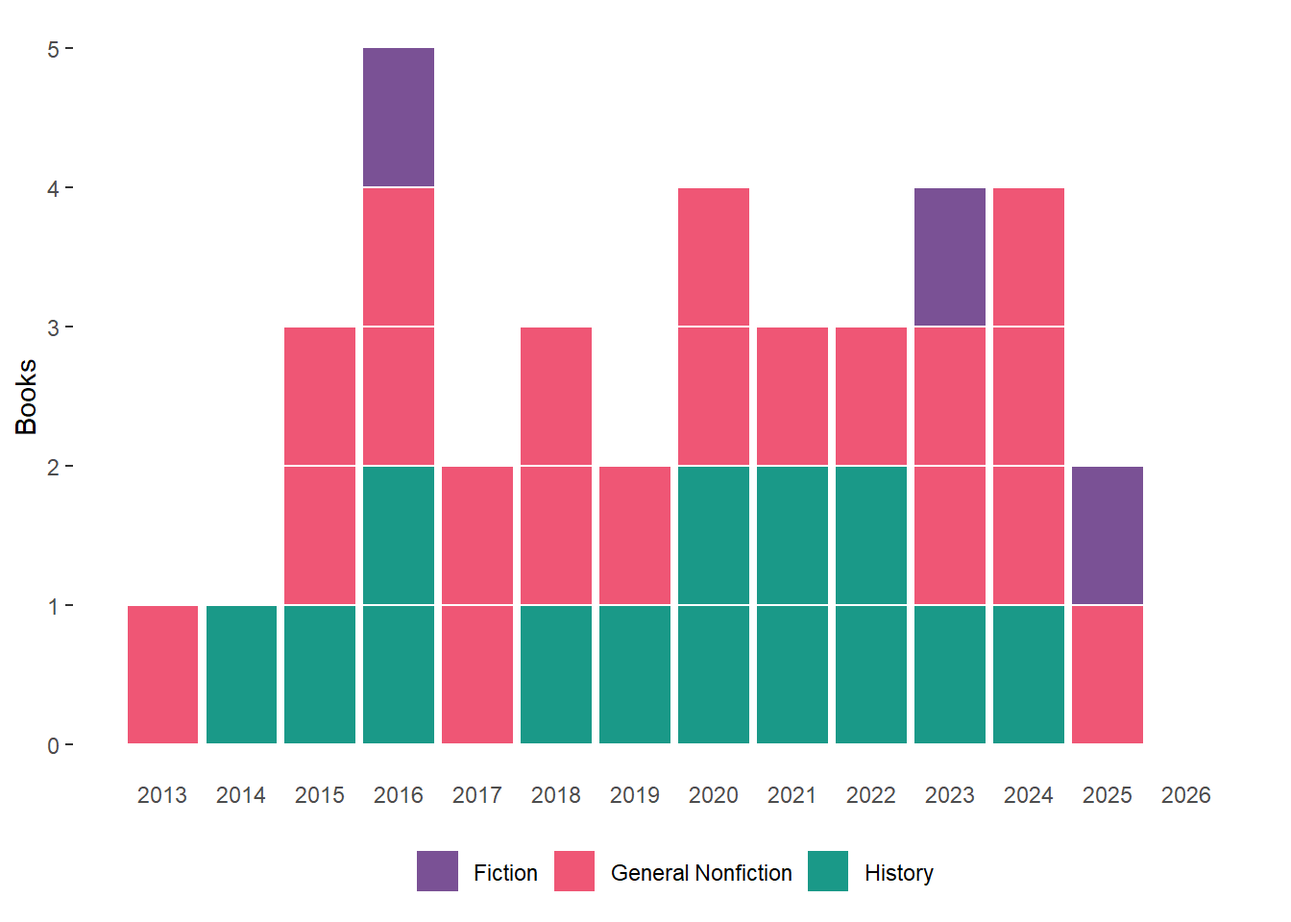
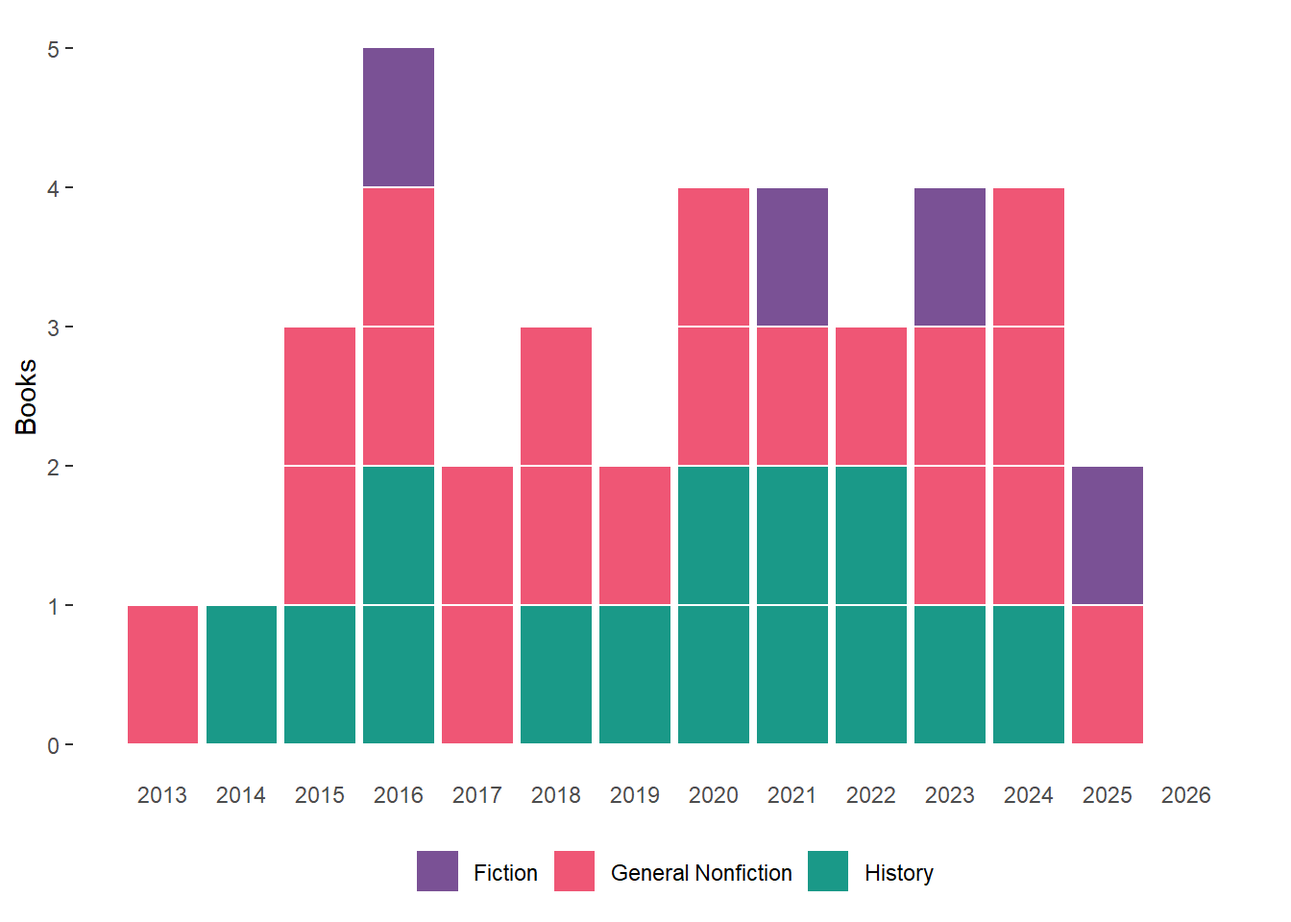
add telephone and update rounding

Changed region(s): [[0.5625, 0.1875, 0.6562, 0.375]]

diff --git a/pullitzer.html b/pullitzer.html
@@ -293,8 +293,8 @@ database is getting).</p>
 <h3>The full list</h3>
 <p>These are the finalists and winners of general nonfiction and
 history, and my progress in reading them.</p>
-<div class="reactable html-widget html-fill-item" id="htmlwidget-33ce086b832242b796eb" style="width:auto;height:auto;"></div>
-<script type="application/json" data-for="htmlwidget-33ce086b832242b796eb">{"x":{"tag":{"name":"Reactable","attribs":{"data":{"year":[2026,2026,2026,2026,2026,2026,2026,2026,2026,2025,2025,2025,2025,2025,2025,2025,2025,2025,2025,2024,2024,2024,2024,2024,2024,2024,2024,2024,2023,2023,2023,2023,2023,2023,2023,2023,2023,2023,2022,2022,2022,2022,2022,2022,2022,2022,2022,2021,2021,2021,2021,2021,2021,2021,2021,2021,2020,2020,2020,2020,2020,2020,2020,2020,2020,2019,2019,2019,2019,2019,2019,2019,2019,2019,2018,2018,2018,2018,2018,2018,2018,2018,2018,2017,2017,2017,2017,2017,2017,2017,2017,2017,2016,2016,2016,2016,2016,2016,2016,2016,2016,2016,2015,2015,2015,2015,2015,2015,2015,2015,2015,2014,2014,2014,2014,2014,2014,2014,2014,2014,2013,2013,2013,2013,2013,2013,2013,2013,2013,2012,2012,2012,2012,2012,2012,2012,2012,2012,2012,2011,2011,2011,2011,2011,2011,2011,2011,2011,2010,2010,2010,2010,2010,2010],"short.title":["We the People","King of Kings","Born in Flames","There Is No Place for Us","A Flower Traveled in My Blood","Mother Emanuel","Angel Down","Audition","Stag Dance","Combee","Native Nations","Plantation Goods","To the Success of Our Hopeless Cause","I Am on the Hit List","Until I Find You","James","The Unicorn Woman","Headshot","Mice 1961","No Right to an Honest Living","American Anarchy","Continental Reckoning","A Day in the Life of Abed Salama","Fire Weather","Cobalt Red","Night Watch","Same Bed Different Dreams","Wednesday's Child","Freedom's Dominion","Seeing Red","Watergate","His Name Is George Floyd","Kingdom of Characters","Sounds Wild and Broken","Under the Skin","Demon Copperhead","Trust","The Immortal King Rao","Covered with Night","Cuba","Until Justice Be Done","Invisible Child","Home, Land, Security","The Family Roe","The Netanyahus","Palmares","Monkey Boy","Franchise","The Three-Cornered War","The Deviant's War","Wilmington's Lie","Minor Feelings","Yellow Bird","The Night Watchman","Telephone","A Registry of My Passage Upon the Earth","Sweet Taste of Liberty ","Race for Profit","The End of the Myth ","The Undying","Solitary","Elderhood","The Nickel Boys","The Topeka School","The Dutch House","Frederick Douglass ","American Eden ","Civilizing Torture ","Amity and Prosperity","In a Day's Work","Rising","The Overstory","The Great Believers","There There","The Gulf","Fear City","Hitler in Los Angeles ","Locking Up Our Own ","Notes on a Foreign Country ","The Evolution of Beauty","Less","In the Distance","The Idiot","Blood in the Water ","Brothers at Arms","New England Bound","Evicted","In a Different Key ","The Politics of Mourning ","The Underground Railroad","Imagine Me Gone","The Sport of Kings","Custer's Trials","Marching Home","Target Tokyo","The Pentagon's Brain","Black Flags","Between the World and Me","If the Oceans Were Ink ","The Sympathizer","Get in Trouble","Maud's Line","Encounters at the Heart of the World","An Empire on the Edge","Empire of Cotton","The Sixth Extinction","Age of Ambition","No Good Men Among the Living","All the Light We Cannot See","The Moor's Account","Let Me Be Frank with You","The Internal Enemy","A Dreadful Deceit","Command and Control","Toms River","The Blood Telegram","The Insurgents","The Goldfinch","The Son","The Woman Who Lost Her Soul","Embers of War","Lincoln's Code","The Barbarous Years","Devil in the Grove","Behind the Beautiful Forevers","The Forest Unseen","The Orphan Master's Son","What We Talk About When We Talk About Anne Frank","The Snow Child","Malcolm X","Empires, Nations & Families","Railroaded","The Eleventh Day","The Swerve","One Hundred Names For Love","Unnatural Selection","Train Dreams","Swamplandia!","The Pale King","The Fiery Trial","Confederate Reckoning","Eden on the Charles","The Emperor of All Maladies","Empire of the Summer Moon","The Shallows","A Visit from the Goon Squad","The Privileges","The Surrendered","Lords of Finance","Empire of Liberty","Fordlandia","Tinkers","Love in Infant Monkeys","In Other Rooms, Other Wonders"],"author":["Jill Lepore","Scott Anderson","Bench Ansfield","Brian Goldstone","Haley Cohen Gilliland","Kevin Sack","Daniel Kraus","Katie Kitamura","Torrey Peters","Edda L. Fields-Black","Kathleen DuVal","Seth Rockman","Benjamin Nathans","Rollo Romig","Rachel Nolan","Percival Everett","Gayl Jones","Rita Bullwinkel","Stacey Levine","Jacqueline Jones","Michael Willrich","Elliott West","Nathan Thrall","John Vaillant","Siddharth Kara","Jayne Anne Phillips","Ed Park","Yiyun Li","Jefferson Cowie","Michael John Witgen","Garrett M. Graff","Robert Samuels and Toluse Olorunnipa","Jing Tsu","David George Haskell","Linda Villarosa","Barbara Kingsolver","Hernan Diaz","Vauhini Vara","Nicole Eustace","Ada Ferrer","Kate Masur","Andrea Elliott","Carla Power","Joshua Prager","Joshua Cohen","Gayl Jones","Francisco Goldman","Marcia Chatelain","Megan Kate Nelson","Eric Cervini","David Zucchino","Cathy Park Hong","Sierra Crane Murdoch","Louise Erdrich","Percival Everett","Daniel Mason","W. Caleb McDaniel","Keeanga-Yamhatta Taylor","Greg Grandin","Anne Boyer","Albert Woodfox","Louise Aronson","Colson Whitehead","Ben Lerner","Ann Patchett","David W. Blight","Victoria Johnson","W. Fitzhugh Brundage","Eliza Griswold","Bernice Yeung","Elizabeth Rush","Richard Powers","Rebecca Makkai","Tommy Orange","Jack E. Davis","Kim Phillips-Fein","Steven J. Ross","James Forman Jr.","Suzy Hansen","Richard O. Prum","Andrew Sean Greer","Hernan Diaz","Elif Batuman","Heather Ann Thompson","Larrie D. Ferreiro","Wendy Warren","Matthew Desmond","John Donvan and Caren Zucker","Micki McElya","Colson Whitehead","Adam Haslett","C.E. Morgan","T.J. Stiles","Brian Matthew Jordan","James M. Scott","Annie Jacobsen","Joby Warrick","Ta-Nehisi Coates","Carla Power","Viet Thanh Nguyen","Kelly Link","Margaret Verble","Elizabeth A. Fenn","Nick Bunker","Steven Beckert","Elizabeth Kolbert","Evan Osnos","Anand Gopal","Anthony Doerr","Laila Lalami","Richard Ford","Alan Taylor","Jacqueline Jones","Eric Schlosser","Dan Fagin","Gary J. Bass","Fred Kaplan","Donna Tartt","Philipp Meyer","Bob Shacochis","Fredrik Logeval","John Fabian Witt","Bernard Bailyn","Gilbert King","Katherine Boo","David George Haskell","Adam Johnson","Nathan Englander","Eowyn Ivey","Manning Marable","Anne F. Hyde","Richard White","Anthony Summers and Robbyn Swan","Stephen Greenblatt","Diane Ackerman","Mara Hvistendahl","Denis Johnson","Karen Russell","David Foster Wallace","Eric Foner","Stephanie McCurry","Michael Rawson","Siddhartha Mukherjee","S.C. Gwynne","Nicholas Carr","Jennifer Egan","Jonathan Dee","Chang-rae Lee","Liaquat Ahamed","Gordon S. Wood","Greg Grandin","Paul Harding","Lydia Millet","Daniyal Mueenuddin"],"read":["No","No","No","No","No","No","No","No","No","No","No","No","No","Yes","No","Yes","No","No","No","No","Yes","No","Yes","Yes","Yes","No","No","No","No","No","Yes","No","Yes","No","Yes","No","Yes","No","Yes","Yes","No","No","Yes","No","No","No","No","Yes","Yes","No","No","No","Yes","No","No","No","Yes","Yes","Yes","No","Yes","No","No","No","No","No","No","Yes","Yes","No","No","No","No","No","Yes","No","No","Yes","No","Yes","No","No","No","No","No","No","Yes","Yes","No","No","No","No","Yes","No","No","Yes","Yes","Yes","No","Yes","No","No","Yes","No","No","No","Yes","Yes","No","No","No","No","No","Yes","No","No","No","No","No","No","No","No","No","No","Yes","No","No","No","No","No","No","No","No","No","No","No","No","No","No","No","No","No","No","No","No","No","No","No","No","No","No","No","No","No"],"award":["Winner","Finalist","Finalist","Winner","Finalist","Finalist","Winner","Finalist","Finalist","Winner","Winner","Finalist","Winner","Finalist","Finalist","Winner","Finalist","Finalist","Finalist","Winner","Finalist","Finalist","Winner","Finalist","Finalist","Winner","Finalist","Finalist","Winner","Finalist","Finalist","Winner","Finalist","Finalist","Finalist","Winner","Winner","Finalist","Winner","Winner","Finalist","Winner","Finalist","Finalist","Winner","Finalist","Finalist","Winner","Finalist","Finalist","Winner","Finalist","Finalist","Winner","Finalist","Finalist","Winner","Finalist","Winner","Winner","Finalist","Finalist","Winner","Finalist","Finalist","Winner","Finalist","Finalist","Winner","Finalist","Finalist","Winner","Finalist","Finalist","Winner","Finalist","Finalist","Winner","Finalist","Finalist","Winner","Finalist","Finalist","Winner","Finalist","Finalist","Winner","Finalist","Finalist","Winner","Finalist","Finalist","Winner","Finalist","Finalist","Finalist","Winner","Finalist","Finalist","Winner","Finalist","Finalist","Winner","Finalist","Finalist","Winner","Finalist","Finalist","Winner","Finalist","Finalist","Winner","Finalist","Finalist","Winner","Finalist","Finalist","Winner","Finalist","Finalist","Winner","Finalist","Finalist","Winner","Finalist","Finalist","Winner","Finalist","Finalist","Winner","Finalist","Finalist","Finalist","Winner","Finalist","Finalist","Finalist","Finalist","Finalist","Winner","Finalist","Finalist","Winner","Finalist","Finalist","Winner","Finalist","Finalist","Winner","Finalist","Finalist","Winner","Finalist","Finalist"],"category":["History","History","History","General Non-Fiction","General Non-Fiction","General Non-Fiction","Fiction","Fiction","Fiction","History","History","History","General Non-Fiction","General Non-Fiction","General Non-Fiction","Fiction","Fiction","Fiction","Fiction","History","History","History","General Non-Fiction","General Non-Fiction","General Non-Fiction","Fiction","Fiction","Fiction","History","History","History","General Non-Fiction","General Non-Fiction","General Non-Fiction","General Non-Fiction","Fiction","Fiction","Fiction","History","History","History","General Non-Fiction","General Non-Fiction","General Non-Fiction","Fiction","Fiction","Fiction","History","History","History","General Non-Fiction","General Non-Fiction","General Non-Fiction","Fiction","Fiction","Fiction","History","History","General Non-Fiction","General Non-Fiction","General Non-Fiction","General Non-Fiction","Fiction","Fiction","Fiction","History","History","History","General Non-Fiction","General Non-Fiction","General Non-Fiction","Fiction","Fiction","Fiction","History","History","History","General Non-Fiction","General Non-Fiction","General Non-Fiction","Fiction","Fiction","Fiction","History","History","History","General Non-Fiction","General Non-Fiction","General Non-Fiction","Fiction","Fiction","Fiction","History","History","History","History","General Non-Fiction","General Non-Fiction","General Non-Fiction","Fiction","Fiction","Fiction","History","History","History","General Non-Fiction","General Non-Fiction","General Non-Fiction","Fiction","Fiction","Fiction","History","History","History","General Non-Fiction","General Non-Fiction","General Non-Fiction","Fiction","Fiction","Fiction","History","History","History","General Non-Fiction","General Non-Fiction","General Non-Fiction","Fiction","Fiction","Fiction","History","History","History","History","General Non-Fiction","General Non-Fiction","General Non-Fiction","Fiction","Fiction","Fiction","History","History","History","General Non-Fiction","General Non-Fiction","General Non-Fiction","Fiction","Fiction","Fiction","History","History","History","Fiction","Fiction","Fiction"]},"columns":[{"id":"year","name":"Year","type":"numeric"},{"id":"short.title","name":"Title","type":"character","minWidth":150},{"id":"author","name":"Author","type":"character"},{"id":"read","name":"Read","type":"character","cell":["❌","❌","❌","❌","❌","❌","❌","❌","❌","❌","❌","❌","❌","✔","❌","✔","❌","❌","❌","❌","✔","❌","✔","✔","✔","❌","❌","❌","❌","❌","✔","❌","✔","❌","✔","❌","✔","❌","✔","✔","❌","❌","✔","❌","❌","❌","❌","✔","✔","❌","❌","❌","✔","❌","❌","❌","✔","✔","✔","❌","✔","❌","❌","❌","❌","❌","❌","✔","✔","❌","❌","❌","❌","❌","✔","❌","❌","✔","❌","✔","❌","❌","❌","❌","❌","❌","✔","✔","❌","❌","❌","❌","✔","❌","❌","✔","✔","✔","❌","✔","❌","❌","✔","❌","❌","❌","✔","✔","❌","❌","❌","❌","❌","✔","❌","❌","❌","❌","❌","❌","❌","❌","❌","❌","✔","❌","❌","❌","❌","❌","❌","❌","❌","❌","❌","❌","❌","❌","❌","❌","❌","❌","❌","❌","❌","❌","❌","❌","❌","❌","❌","❌","❌","❌"],"maxWidth":75},{"id":"award","name":"Award","type":"character"},{"id":"category","name":"Category","type":"character"}],"defaultPageSize":20,"showSortable":true,"rowStyle":[null,null,null,null,null,null,null,null,null,null,null,null,null,{"fontWeight":"bold"},null,{"fontWeight":"bold"},null,null,null,null,{"fontWeight":"bold"},null,{"fontWeight":"bold"},{"fontWeight":"bold"},{"fontWeight":"bold"},null,null,null,null,null,{"fontWeight":"bold"},null,{"fontWeight":"bold"},null,{"fontWeight":"bold"},null,{"fontWeight":"bold"},null,{"fontWeight":"bold"},{"fontWeight":"bold"},null,null,{"fontWeight":"bold"},null,null,null,null,{"fontWeight":"bold"},{"fontWeight":"bold"},null,null,null,{"fontWeight":"bold"},null,null,null,{"fontWeight":"bold"},{"fontWeight":"bold"},{"fontWeight":"bold"},null,{"fontWeight":"bold"},null,null,null,null,null,null,{"fontWeight":"bold"},{"fontWeight":"bold"},null,null,null,null,null,{"fontWeight":"bold"},null,null,{"fontWeight":"bold"},null,{"fontWeight":"bold"},null,null,null,null,null,null,{"fontWeight":"bold"},{"fontWeight":"bold"},null,null,null,null,{"fontWeight":"bold"},null,null,{"fontWeight":"bold"},{"fontWeight":"bold"},{"fontWeight":"bold"},null,{"fontWeight":"bold"},null,null,{"fontWeight":"bold"},null,null,null,{"fontWeight":"bold"},{"fontWeight":"bold"},null,null,null,null,null,{"fontWeight":"bold"},null,null,null,null,null,null,null,null,null,null,{"fontWeight":"bold"},null,null,null,null,null,null,null,null,null,null,null,null,null,null,null,null,null,null,null,null,null,null,null,null,null,null,null,null,null],"dataKey":"f39688c6a2685bf71ecdb2c179d27d4e"},"children":[]},"class":"reactR_markup"},"evals":[],"jsHooks":[]}</script>
+<div class="reactable html-widget html-fill-item" id="htmlwidget-8eb6094109c820f6a9fa" style="width:auto;height:auto;"></div>
+<script type="application/json" data-for="htmlwidget-8eb6094109c820f6a9fa">{"x":{"tag":{"name":"Reactable","attribs":{"data":{"year":[2026,2026,2026,2026,2026,2026,2026,2026,2026,2025,2025,2025,2025,2025,2025,2025,2025,2025,2025,2024,2024,2024,2024,2024,2024,2024,2024,2024,2023,2023,2023,2023,2023,2023,2023,2023,2023,2023,2022,2022,2022,2022,2022,2022,2022,2022,2022,2021,2021,2021,2021,2021,2021,2021,2021,2021,2020,2020,2020,2020,2020,2020,2020,2020,2020,2019,2019,2019,2019,2019,2019,2019,2019,2019,2018,2018,2018,2018,2018,2018,2018,2018,2018,2017,2017,2017,2017,2017,2017,2017,2017,2017,2016,2016,2016,2016,2016,2016,2016,2016,2016,2016,2015,2015,2015,2015,2015,2015,2015,2015,2015,2014,2014,2014,2014,2014,2014,2014,2014,2014,2013,2013,2013,2013,2013,2013,2013,2013,2013,2012,2012,2012,2012,2012,2012,2012,2012,2012,2012,2011,2011,2011,2011,2011,2011,2011,2011,2011,2010,2010,2010,2010,2010,2010],"short.title":["We the People","King of Kings","Born in Flames","There Is No Place for Us","A Flower Traveled in My Blood","Mother Emanuel","Angel Down","Audition","Stag Dance","Combee","Native Nations","Plantation Goods","To the Success of Our Hopeless Cause","I Am on the Hit List","Until I Find You","James","The Unicorn Woman","Headshot","Mice 1961","No Right to an Honest Living","American Anarchy","Continental Reckoning","A Day in the Life of Abed Salama","Fire Weather","Cobalt Red","Night Watch","Same Bed Different Dreams","Wednesday's Child","Freedom's Dominion","Seeing Red","Watergate","His Name Is George Floyd","Kingdom of Characters","Sounds Wild and Broken","Under the Skin","Demon Copperhead","Trust","The Immortal King Rao","Covered with Night","Cuba","Until Justice Be Done","Invisible Child","Home, Land, Security","The Family Roe","The Netanyahus","Palmares","Monkey Boy","Franchise","The Three-Cornered War","The Deviant's War","Wilmington's Lie","Minor Feelings","Yellow Bird","The Night Watchman","Telephone","A Registry of My Passage Upon the Earth","Sweet Taste of Liberty ","Race for Profit","The End of the Myth ","The Undying","Solitary","Elderhood","The Nickel Boys","The Topeka School","The Dutch House","Frederick Douglass ","American Eden ","Civilizing Torture ","Amity and Prosperity","In a Day's Work","Rising","The Overstory","The Great Believers","There There","The Gulf","Fear City","Hitler in Los Angeles ","Locking Up Our Own ","Notes on a Foreign Country ","The Evolution of Beauty","Less","In the Distance","The Idiot","Blood in the Water ","Brothers at Arms","New England Bound","Evicted","In a Different Key ","The Politics of Mourning ","The Underground Railroad","Imagine Me Gone","The Sport of Kings","Custer's Trials","Marching Home","Target Tokyo","The Pentagon's Brain","Black Flags","Between the World and Me","If the Oceans Were Ink ","The Sympathizer","Get in Trouble","Maud's Line","Encounters at the Heart of the World","An Empire on the Edge","Empire of Cotton","The Sixth Extinction","Age of Ambition","No Good Men Among the Living","All the Light We Cannot See","The Moor's Account","Let Me Be Frank with You","The Internal Enemy","A Dreadful Deceit","Command and Control","Toms River","The Blood Telegram","The Insurgents","The Goldfinch","The Son","The Woman Who Lost Her Soul","Embers of War","Lincoln's Code","The Barbarous Years","Devil in the Grove","Behind the Beautiful Forevers","The Forest Unseen","The Orphan Master's Son","What We Talk About When We Talk About Anne Frank","The Snow Child","Malcolm X","Empires, Nations & Families","Railroaded","The Eleventh Day","The Swerve","One Hundred Names For Love","Unnatural Selection","Train Dreams","Swamplandia!","The Pale King","The Fiery Trial","Confederate Reckoning","Eden on the Charles","The Emperor of All Maladies","Empire of the Summer Moon","The Shallows","A Visit from the Goon Squad","The Privileges","The Surrendered","Lords of Finance","Empire of Liberty","Fordlandia","Tinkers","Love in Infant Monkeys","In Other Rooms, Other Wonders"],"author":["Jill Lepore","Scott Anderson","Bench Ansfield","Brian Goldstone","Haley Cohen Gilliland","Kevin Sack","Daniel Kraus","Katie Kitamura","Torrey Peters","Edda L. Fields-Black","Kathleen DuVal","Seth Rockman","Benjamin Nathans","Rollo Romig","Rachel Nolan","Percival Everett","Gayl Jones","Rita Bullwinkel","Stacey Levine","Jacqueline Jones","Michael Willrich","Elliott West","Nathan Thrall","John Vaillant","Siddharth Kara","Jayne Anne Phillips","Ed Park","Yiyun Li","Jefferson Cowie","Michael John Witgen","Garrett M. Graff","Robert Samuels and Toluse Olorunnipa","Jing Tsu","David George Haskell","Linda Villarosa","Barbara Kingsolver","Hernan Diaz","Vauhini Vara","Nicole Eustace","Ada Ferrer","Kate Masur","Andrea Elliott","Carla Power","Joshua Prager","Joshua Cohen","Gayl Jones","Francisco Goldman","Marcia Chatelain","Megan Kate Nelson","Eric Cervini","David Zucchino","Cathy Park Hong","Sierra Crane Murdoch","Louise Erdrich","Percival Everett","Daniel Mason","W. Caleb McDaniel","Keeanga-Yamhatta Taylor","Greg Grandin","Anne Boyer","Albert Woodfox","Louise Aronson","Colson Whitehead","Ben Lerner","Ann Patchett","David W. Blight","Victoria Johnson","W. Fitzhugh Brundage","Eliza Griswold","Bernice Yeung","Elizabeth Rush","Richard Powers","Rebecca Makkai","Tommy Orange","Jack E. Davis","Kim Phillips-Fein","Steven J. Ross","James Forman Jr.","Suzy Hansen","Richard O. Prum","Andrew Sean Greer","Hernan Diaz","Elif Batuman","Heather Ann Thompson","Larrie D. Ferreiro","Wendy Warren","Matthew Desmond","John Donvan and Caren Zucker","Micki McElya","Colson Whitehead","Adam Haslett","C.E. Morgan","T.J. Stiles","Brian Matthew Jordan","James M. Scott","Annie Jacobsen","Joby Warrick","Ta-Nehisi Coates","Carla Power","Viet Thanh Nguyen","Kelly Link","Margaret Verble","Elizabeth A. Fenn","Nick Bunker","Steven Beckert","Elizabeth Kolbert","Evan Osnos","Anand Gopal","Anthony Doerr","Laila Lalami","Richard Ford","Alan Taylor","Jacqueline Jones","Eric Schlosser","Dan Fagin","Gary J. Bass","Fred Kaplan","Donna Tartt","Philipp Meyer","Bob Shacochis","Fredrik Logeval","John Fabian Witt","Bernard Bailyn","Gilbert King","Katherine Boo","David George Haskell","Adam Johnson","Nathan Englander","Eowyn Ivey","Manning Marable","Anne F. Hyde","Richard White","Anthony Summers and Robbyn Swan","Stephen Greenblatt","Diane Ackerman","Mara Hvistendahl","Denis Johnson","Karen Russell","David Foster Wallace","Eric Foner","Stephanie McCurry","Michael Rawson","Siddhartha Mukherjee","S.C. Gwynne","Nicholas Carr","Jennifer Egan","Jonathan Dee","Chang-rae Lee","Liaquat Ahamed","Gordon S. Wood","Greg Grandin","Paul Harding","Lydia Millet","Daniyal Mueenuddin"],"read":["No","No","No","No","No","No","No","No","No","No","No","No","No","Yes","No","Yes","No","No","No","No","Yes","No","Yes","Yes","Yes","No","No","No","No","No","Yes","No","Yes","No","Yes","No","Yes","No","Yes","Yes","No","No","Yes","No","No","No","No","Yes","Yes","No","No","No","Yes","No","Yes","No","Yes","Yes","Yes","No","Yes","No","No","No","No","No","No","Yes","Yes","No","No","No","No","No","Yes","No","No","Yes","No","Yes","No","No","No","No","No","No","Yes","Yes","No","No","No","No","Yes","No","No","Yes","Yes","Yes","No","Yes","No","No","Yes","No","No","No","Yes","Yes","No","No","No","No","No","Yes","No","No","No","No","No","No","No","No","No","No","Yes","No","No","No","No","No","No","No","No","No","No","No","No","No","No","No","No","No","No","No","No","No","No","No","No","No","No","No","No","No"],"award":["Winner","Finalist","Finalist","Winner","Finalist","Finalist","Winner","Finalist","Finalist","Winner","Winner","Finalist","Winner","Finalist","Finalist","Winner","Finalist","Finalist","Finalist","Winner","Finalist","Finalist","Winner","Finalist","Finalist","Winner","Finalist","Finalist","Winner","Finalist","Finalist","Winner","Finalist","Finalist","Finalist","Winner","Winner","Finalist","Winner","Winner","Finalist","Winner","Finalist","Finalist","Winner","Finalist","Finalist","Winner","Finalist","Finalist","Winner","Finalist","Finalist","Winner","Finalist","Finalist","Winner","Finalist","Winner","Winner","Finalist","Finalist","Winner","Finalist","Finalist","Winner","Finalist","Finalist","Winner","Finalist","Finalist","Winner","Finalist","Finalist","Winner","Finalist","Finalist","Winner","Finalist","Finalist","Winner","Finalist","Finalist","Winner","Finalist","Finalist","Winner","Finalist","Finalist","Winner","Finalist","Finalist","Winner","Finalist","Finalist","Finalist","Winner","Finalist","Finalist","Winner","Finalist","Finalist","Winner","Finalist","Finalist","Winner","Finalist","Finalist","Winner","Finalist","Finalist","Winner","Finalist","Finalist","Winner","Finalist","Finalist","Winner","Finalist","Finalist","Winner","Finalist","Finalist","Winner","Finalist","Finalist","Winner","Finalist","Finalist","Winner","Finalist","Finalist","Finalist","Winner","Finalist","Finalist","Finalist","Finalist","Finalist","Winner","Finalist","Finalist","Winner","Finalist","Finalist","Winner","Finalist","Finalist","Winner","Finalist","Finalist","Winner","Finalist","Finalist"],"category":["History","History","History","General Non-Fiction","General Non-Fiction","General Non-Fiction","Fiction","Fiction","Fiction","History","History","History","General Non-Fiction","General Non-Fiction","General Non-Fiction","Fiction","Fiction","Fiction","Fiction","History","History","History","General Non-Fiction","General Non-Fiction","General Non-Fiction","Fiction","Fiction","Fiction","History","History","History","General Non-Fiction","General Non-Fiction","General Non-Fiction","General Non-Fiction","Fiction","Fiction","Fiction","History","History","History","General Non-Fiction","General Non-Fiction","General Non-Fiction","Fiction","Fiction","Fiction","History","History","History","General Non-Fiction","General Non-Fiction","General Non-Fiction","Fiction","Fiction","Fiction","History","History","General Non-Fiction","General Non-Fiction","General Non-Fiction","General Non-Fiction","Fiction","Fiction","Fiction","History","History","History","General Non-Fiction","General Non-Fiction","General Non-Fiction","Fiction","Fiction","Fiction","History","History","History","General Non-Fiction","General Non-Fiction","General Non-Fiction","Fiction","Fiction","Fiction","History","History","History","General Non-Fiction","General Non-Fiction","General Non-Fiction","Fiction","Fiction","Fiction","History","History","History","History","General Non-Fiction","General Non-Fiction","General Non-Fiction","Fiction","Fiction","Fiction","History","History","History","General Non-Fiction","General Non-Fiction","General Non-Fiction","Fiction","Fiction","Fiction","History","History","History","General Non-Fiction","General Non-Fiction","General Non-Fiction","Fiction","Fiction","Fiction","History","History","History","General Non-Fiction","General Non-Fiction","General Non-Fiction","Fiction","Fiction","Fiction","History","History","History","History","General Non-Fiction","General Non-Fiction","General Non-Fiction","Fiction","Fiction","Fiction","History","History","History","General Non-Fiction","General Non-Fiction","General Non-Fiction","Fiction","Fiction","Fiction","History","History","History","Fiction","Fiction","Fiction"]},"columns":[{"id":"year","name":"Year","type":"numeric"},{"id":"short.title","name":"Title","type":"character","minWidth":150},{"id":"author","name":"Author","type":"character"},{"id":"read","name":"Read","type":"character","cell":["❌","❌","❌","❌","❌","❌","❌","❌","❌","❌","❌","❌","❌","✔","❌","✔","❌","❌","❌","❌","✔","❌","✔","✔","✔","❌","❌","❌","❌","❌","✔","❌","✔","❌","✔","❌","✔","❌","✔","✔","❌","❌","✔","❌","❌","❌","❌","✔","✔","❌","❌","❌","✔","❌","✔","❌","✔","✔","✔","❌","✔","❌","❌","❌","❌","❌","❌","✔","✔","❌","❌","❌","❌","❌","✔","❌","❌","✔","❌","✔","❌","❌","❌","❌","❌","❌","✔","✔","❌","❌","❌","❌","✔","❌","❌","✔","✔","✔","❌","✔","❌","❌","✔","❌","❌","❌","✔","✔","❌","❌","❌","❌","❌","✔","❌","❌","❌","❌","❌","❌","❌","❌","❌","❌","✔","❌","❌","❌","❌","❌","❌","❌","❌","❌","❌","❌","❌","❌","❌","❌","❌","❌","❌","❌","❌","❌","❌","❌","❌","❌","❌","❌","❌","❌"],"maxWidth":75},{"id":"award","name":"Award","type":"character"},{"id":"category","name":"Category","type":"character"}],"defaultPageSize":20,"showSortable":true,"rowStyle":[null,null,null,null,null,null,null,null,null,null,null,null,null,{"fontWeight":"bold"},null,{"fontWeight":"bold"},null,null,null,null,{"fontWeight":"bold"},null,{"fontWeight":"bold"},{"fontWeight":"bold"},{"fontWeight":"bold"},null,null,null,null,null,{"fontWeight":"bold"},null,{"fontWeight":"bold"},null,{"fontWeight":"bold"},null,{"fontWeight":"bold"},null,{"fontWeight":"bold"},{"fontWeight":"bold"},null,null,{"fontWeight":"bold"},null,null,null,null,{"fontWeight":"bold"},{"fontWeight":"bold"},null,null,null,{"fontWeight":"bold"},null,{"fontWeight":"bold"},null,{"fontWeight":"bold"},{"fontWeight":"bold"},{"fontWeight":"bold"},null,{"fontWeight":"bold"},null,null,null,null,null,null,{"fontWeight":"bold"},{"fontWeight":"bold"},null,null,null,null,null,{"fontWeight":"bold"},null,null,{"fontWeight":"bold"},null,{"fontWeight":"bold"},null,null,null,null,null,null,{"fontWeight":"bold"},{"fontWeight":"bold"},null,null,null,null,{"fontWeight":"bold"},null,null,{"fontWeight":"bold"},{"fontWeight":"bold"},{"fontWeight":"bold"},null,{"fontWeight":"bold"},null,null,{"fontWeight":"bold"},null,null,null,{"fontWeight":"bold"},{"fontWeight":"bold"},null,null,null,null,null,{"fontWeight":"bold"},null,null,null,null,null,null,null,null,null,null,{"fontWeight":"bold"},null,null,null,null,null,null,null,null,null,null,null,null,null,null,null,null,null,null,null,null,null,null,null,null,null,null,null,null,null],"dataKey":"d0ea2b67a9e09ddecab6d4d2ad4459c4"},"children":[]},"class":"reactR_markup"},"evals":[],"jsHooks":[]}</script>
 </div>
 
 

diff --git a/index.html b/index.html
@@ -290,13 +290,13 @@ that.</p>
 <h3>How I’m doing</h3>
 <p>There was early progress, and then a decline, and I’m working my way
 back. It’s a journey.</p>
-<div class="plotly html-widget html-fill-item" id="htmlwidget-01361e383ee8096f0963" style="width:100%;height:480px;"></div>
-<script type="application/json" data-for="htmlwidget-01361e383ee8096f0963">{"x":{"visdat":{"9444699c722":["function () ","plotlyVisDat"]},"cur_data":"9444699c722","attrs":{"9444699c722":{"x":{},"y":{},"mode":"lines+markers","fill":"tozeroy","alpha_stroke":1,"sizes":[10,100],"spans":[1,20],"type":"scatter"}},"layout":{"margin":{"b":40,"l":60,"t":25,"r":10},"shapes":[{"type":"line","x0":2017,"x1":2026,"y0":24,"y1":24,"line":{"width":2,"dash":"dot"}}],"yaxis":{"domain":[0,1],"automargin":true,"showline":false,"showticklabels":true,"tickcolor":"rgb(127,127,127)","ticks":"outside","zeroline":false,"range":[0,32],"dtick":4,"zerolinewidth":2,"title":"Books"},"xaxis":{"domain":[0,1],"automargin":true,"showline":true,"zerolinewidth":6,"title":"Year"},"hovermode":"closest","showlegend":false},"source":"A","config":{"modeBarButtonsToAdd":["hoverclosest","hovercompare"],"showSendToCloud":false,"responsive":true,"displayModeBar":false},"data":[{"fillcolor":"rgba(31,119,180,0.5)","x":[2017,2018,2019,2020,2021,2022,2023,2024,2025,2026],"y":[18,23,23,9,10,21,18,16,18,7],"mode":"lines+markers","fill":"tozeroy","type":"scatter","marker":{"color":"rgba(31,119,180,1)","line":{"color":"rgba(31,119,180,1)"}},"error_y":{"color":"rgba(31,119,180,1)"},"error_x":{"color":"rgba(31,119,180,1)"},"line":{"color":"rgba(31,119,180,1)"},"xaxis":"x","yaxis":"y","frame":null}],"highlight":{"on":"plotly_click","persistent":false,"dynamic":false,"selectize":false,"opacityDim":0.20000000000000001,"selected":{"opacity":1},"debounce":0},"shinyEvents":["plotly_hover","plotly_click","plotly_selected","plotly_relayout","plotly_brushed","plotly_brushing","plotly_clickannotation","plotly_doubleclick","plotly_deselect","plotly_afterplot","plotly_sunburstclick"],"base_url":"https://plot.ly"},"evals":[],"jsHooks":[]}</script>
+<div class="plotly html-widget html-fill-item" id="htmlwidget-a062e0d2934defcc1085" style="width:100%;height:480px;"></div>
+<script type="application/json" data-for="htmlwidget-a062e0d2934defcc1085">{"x":{"visdat":{"af544d0c3939":["function () ","plotlyVisDat"]},"cur_data":"af544d0c3939","attrs":{"af544d0c3939":{"x":{},"y":{},"mode":"lines+markers","fill":"tozeroy","alpha_stroke":1,"sizes":[10,100],"spans":[1,20],"type":"scatter"}},"layout":{"margin":{"b":40,"l":60,"t":25,"r":10},"shapes":[{"type":"line","x0":2017,"x1":2026,"y0":24,"y1":24,"line":{"width":2,"dash":"dot"}}],"yaxis":{"domain":[0,1],"automargin":true,"showline":false,"showticklabels":true,"tickcolor":"rgb(127,127,127)","ticks":"outside","zeroline":false,"range":[0,32],"dtick":4,"zerolinewidth":2,"title":"Books"},"xaxis":{"domain":[0,1],"automargin":true,"showline":true,"zerolinewidth":6,"title":"Year"},"hovermode":"closest","showlegend":false},"source":"A","config":{"modeBarButtonsToAdd":["hoverclosest","hovercompare"],"showSendToCloud":false,"responsive":true,"displayModeBar":false},"data":[{"fillcolor":"rgba(31,119,180,0.5)","x":[2017,2018,2019,2020,2021,2022,2023,2024,2025,2026],"y":[18,23,23,9,10,21,18,16,18,9],"mode":"lines+markers","fill":"tozeroy","type":"scatter","marker":{"color":"rgba(31,119,180,1)","line":{"color":"rgba(31,119,180,1)"}},"error_y":{"color":"rgba(31,119,180,1)"},"error_x":{"color":"rgba(31,119,180,1)"},"line":{"color":"rgba(31,119,180,1)"},"xaxis":"x","yaxis":"y","frame":null}],"highlight":{"on":"plotly_click","persistent":false,"dynamic":false,"selectize":false,"opacityDim":0.20000000000000001,"selected":{"opacity":1},"debounce":0},"shinyEvents":["plotly_hover","plotly_click","plotly_selected","plotly_relayout","plotly_brushed","plotly_brushing","plotly_clickannotation","plotly_doubleclick","plotly_deselect","plotly_afterplot","plotly_sunburstclick"],"base_url":"https://plot.ly"},"evals":[],"jsHooks":[]}</script>
 </div>
 <div id="what-have-i-read-this-year" class="section level3">
 <h3>What have I read this year?</h3>
-<div class="reactable html-widget html-fill-item" id="htmlwidget-2a42ea76c3dc8580f818" style="width:auto;height:auto;"></div>
-<script type="application/json" data-for="htmlwidget-2a42ea76c3dc8580f818">{"x":{"tag":{"name":"Reactable","attribs":{"data":{"Order":[7,6,5,4,3,2,1],"Title":["Friday Night Lights: A Town, a Team, and a Dream","Why We Sleep: Unlocking the Power of Sleep and Dreams","Facing the Spears of Change: The Life and Legacy of John Papa `Ī`ī","One Day, Everyone Will Always Have Been Against This","Faraway the Southern Sky","The Tattoo","The World and All the Things Upon It: Native Hawaiian Geographies of Exploration"],"Author":["H.G. Bissinger","Matthew Walker","Marie Alohalani Brown","Omar El Akkad","Joseph Andras","Chris McKinney","David A. Chang"]},"columns":[{"id":"Order","name":"Order","type":"numeric","maxWidth":75},{"id":"Title","name":"Title","type":"character"},{"id":"Author","name":"Author","type":"character","maxWidth":300}],"showSortable":true,"dataKey":"9d137ac0cad29ed9eedc11a66382a621"},"children":[]},"class":"reactR_markup"},"evals":[],"jsHooks":[]}</script>
+<div class="reactable html-widget html-fill-item" id="htmlwidget-09787454fe626247ee16" style="width:auto;height:auto;"></div>
+<script type="application/json" data-for="htmlwidget-09787454fe626247ee16">{"x":{"tag":{"name":"Reactable","attribs":{"data":{"Order":[9,8,7,6,5,4,3,2,1],"Title":["Telephone","Capturing Kanahamoku: How a Surfing Legend and a Scientific Obsession Redfined Race and Culture","Friday Night Lights: A Town, a Team, and a Dream","Why We Sleep: Unlocking the Power of Sleep and Dreams","Facing the Spears of Change: The Life and Legacy of John Papa `Ī`ī","One Day, Everyone Will Always Have Been Against This","Faraway the Southern Sky","The Tattoo","The World and All the Things Upon It: Native Hawaiian Geographies of Exploration"],"Author":["Percival Everett","Michael Rossi","H.G. Bissinger","Matthew Walker","Marie Alohalani Brown","Omar El Akkad","Joseph Andras","Chris McKinney","David A. Chang"]},"columns":[{"id":"Order","name":"Order","type":"numeric","maxWidth":75},{"id":"Title","name":"Title","type":"character"},{"id":"Author","name":"Author","type":"character","maxWidth":300}],"showSortable":true,"dataKey":"b75079cb1af0e0c0cdfccea5051311ae"},"children":[]},"class":"reactR_markup"},"evals":[],"jsHooks":[]}</script>
 </div>
 
 

diff --git a/authors.html b/authors.html
@@ -281,8 +281,8 @@ reading. Ideally, the books I read will not only entertain me, but
 expand my worldview. There are lots of ways to think and measure that,
 but a simple one is to track the backgrounds of the authors, so I’m
 starting there.</p>
-<div class="plotly html-widget html-fill-item" id="htmlwidget-3dc28c66c7f81e152aa4" style="width:100%;height:480px;"></div>
-<script type="application/json" data-for="htmlwidget-3dc28c66c7f81e152aa4">{"x":{"visdat":{"967c38f97127":["function () ","plotlyVisDat"]},"cur_data":"967c38f97127","attrs":{"967c38f97127":{"x":{},"y":{},"mode":"lines+markers","line":{"color":"#ef5675","width":4},"marker":{"color":"#ef5675","size":6},"name":"Authors of Color","alpha_stroke":1,"sizes":[10,100],"spans":[1,20],"type":"scatter"},"967c38f97127.1":{"x":{},"y":{},"mode":"lines+markers","line":{"color":"#7a5195","width":4},"marker":{"color":"#7a5195","size":6},"name":"Female Authors","alpha_stroke":1,"sizes":[10,100],"spans":[1,20],"type":"scatter","inherit":true}},"layout":{"margin":{"b":40,"l":60,"t":25,"r":10},"legend":{"orientation":"h","font":{"size":12,"family":"Arial"}},"yaxis":{"domain":[0,1],"automargin":true,"title":"Percentage","titlefont":{"size":14,"family":"Arial"}},"xaxis":{"domain":[0,1],"automargin":true,"title":"","tickfont":{"size":12,"family":"Arial"}},"hovermode":"closest","showlegend":true},"source":"A","config":{"modeBarButtonsToAdd":["hoverclosest","hovercompare"],"showSendToCloud":false,"displayModeBar":false},"data":[{"x":[2017,2018,2019,2020,2021,2022,2023,2024,2025,2026],"y":[22.199999999999999,8.6999999999999993,17.399999999999999,33.299999999999997,40,19,16.699999999999999,37.5,66.700000000000003,42.899999999999999],"mode":"lines+markers","line":{"color":"#ef5675","width":4},"marker":{"color":"#ef5675","size":6,"line":{"color":"rgba(31,119,180,1)"}},"name":"Authors of Color","type":"scatter","error_y":{"color":"rgba(31,119,180,1)"},"error_x":{"color":"rgba(31,119,180,1)"},"xaxis":"x","yaxis":"y","frame":null},{"x":[2017,2018,2019,2020,2021,2022,2023,2024,2025,2026],"y":[22.199999999999999,26.100000000000001,30.399999999999999,11.1,50,38.100000000000001,16.699999999999999,25,33.299999999999997,28.600000000000001],"mode":"lines+markers","line":{"color":"#7a5195","width":4},"marker":{"color":"#7a5195","size":6,"line":{"color":"rgba(255,127,14,1)"}},"name":"Female Authors","type":"scatter","error_y":{"color":"rgba(255,127,14,1)"},"error_x":{"color":"rgba(255,127,14,1)"},"xaxis":"x","yaxis":"y","frame":null}],"highlight":{"on":"plotly_click","persistent":false,"dynamic":false,"selectize":false,"opacityDim":0.20000000000000001,"selected":{"opacity":1},"debounce":0},"shinyEvents":["plotly_hover","plotly_click","plotly_selected","plotly_relayout","plotly_brushed","plotly_brushing","plotly_clickannotation","plotly_doubleclick","plotly_deselect","plotly_afterplot","plotly_sunburstclick"],"base_url":"https://plot.ly"},"evals":[],"jsHooks":[]}</script>
+<div class="plotly html-widget html-fill-item" id="htmlwidget-52568e18ac87d985569a" style="width:100%;height:480px;"></div>
+<script type="application/json" data-for="htmlwidget-52568e18ac87d985569a">{"x":{"visdat":{"8de060b9420f":["function () ","plotlyVisDat"]},"cur_data":"8de060b9420f","attrs":{"8de060b9420f":{"x":{},"y":{},"mode":"lines+markers","line":{"color":"#ef5675","width":4},"marker":{"color":"#ef5675","size":6},"name":"Authors of Color","alpha_stroke":1,"sizes":[10,100],"spans":[1,20],"type":"scatter"},"8de060b9420f.1":{"x":{},"y":{},"mode":"lines+markers","line":{"color":"#7a5195","width":4},"marker":{"color":"#7a5195","size":6},"name":"Female Authors","alpha_stroke":1,"sizes":[10,100],"spans":[1,20],"type":"scatter","inherit":true}},"layout":{"margin":{"b":40,"l":60,"t":25,"r":10},"legend":{"orientation":"h","font":{"size":12,"family":"Arial"}},"yaxis":{"domain":[0,1],"automargin":true,"title":"Percentage","titlefont":{"size":14,"family":"Arial"}},"xaxis":{"domain":[0,1],"automargin":true,"title":"","tickfont":{"size":12,"family":"Arial"}},"hovermode":"closest","showlegend":true},"source":"A","config":{"modeBarButtonsToAdd":["hoverclosest","hovercompare"],"showSendToCloud":false,"displayModeBar":false},"data":[{"x":[2017,2018,2019,2020,2021,2022,2023,2024,2025,2026],"y":[22,9,17,33,40,19,17,38,67,44],"mode":"lines+markers","line":{"color":"#ef5675","width":4},"marker":{"color":"#ef5675","size":6,"line":{"color":"rgba(31,119,180,1)"}},"name":"Authors of Color","type":"scatter","error_y":{"color":"rgba(31,119,180,1)"},"error_x":{"color":"rgba(31,119,180,1)"},"xaxis":"x","yaxis":"y","frame":null},{"x":[2017,2018,2019,2020,2021,2022,2023,2024,2025,2026],"y":[22,26,30,11,50,38,17,25,33,22],"mode":"lines+markers","line":{"color":"#7a5195","width":4},"marker":{"color":"#7a5195","size":6,"line":{"color":"rgba(255,127,14,1)"}},"name":"Female Authors","type":"scatter","error_y":{"color":"rgba(255,127,14,1)"},"error_x":{"color":"rgba(255,127,14,1)"},"xaxis":"x","yaxis":"y","frame":null}],"highlight":{"on":"plotly_click","persistent":false,"dynamic":false,"selectize":false,"opacityDim":0.20000000000000001,"selected":{"opacity":1},"debounce":0},"shinyEvents":["plotly_hover","plotly_click","plotly_selected","plotly_relayout","plotly_brushed","plotly_brushing","plotly_clickannotation","plotly_doubleclick","plotly_deselect","plotly_afterplot","plotly_sunburstclick"],"base_url":"https://plot.ly"},"evals":[],"jsHooks":[]}</script>
 
 
 
